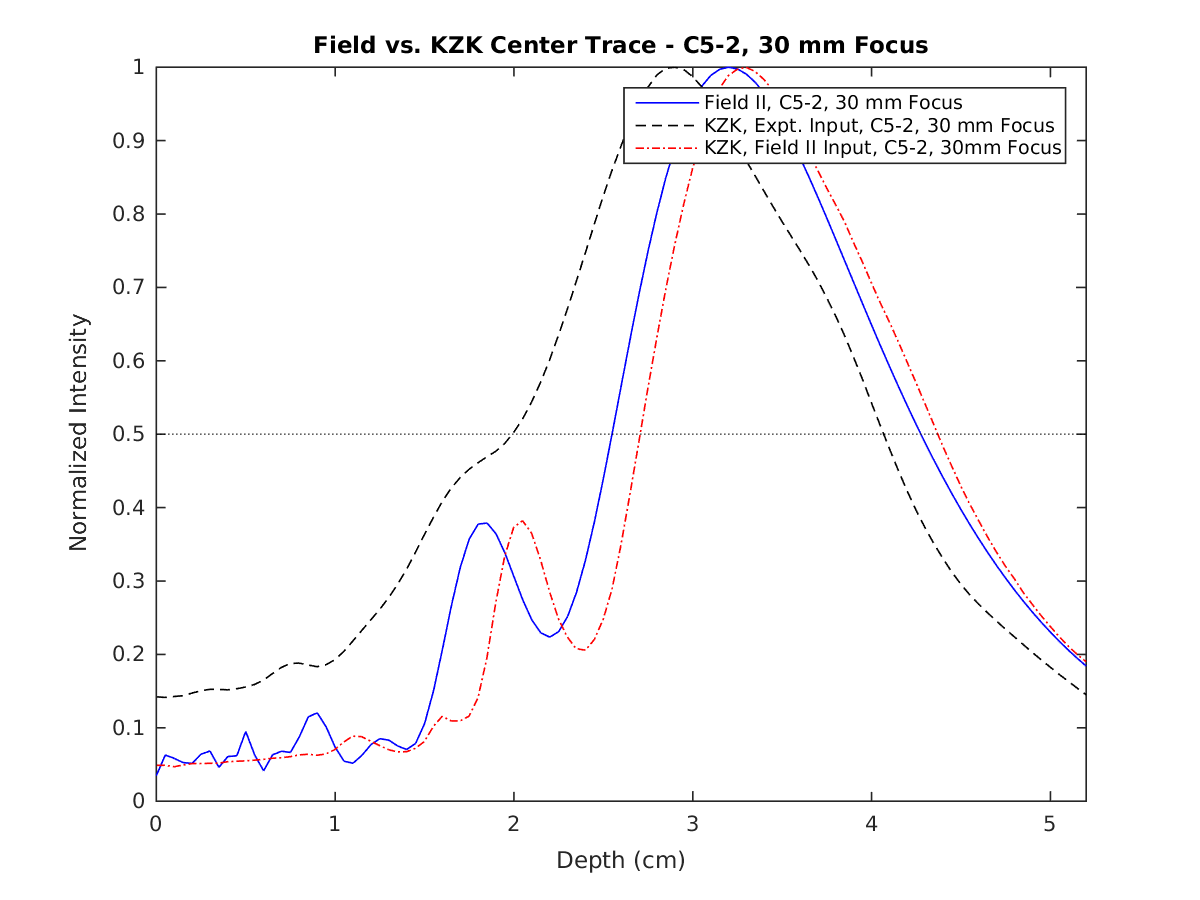
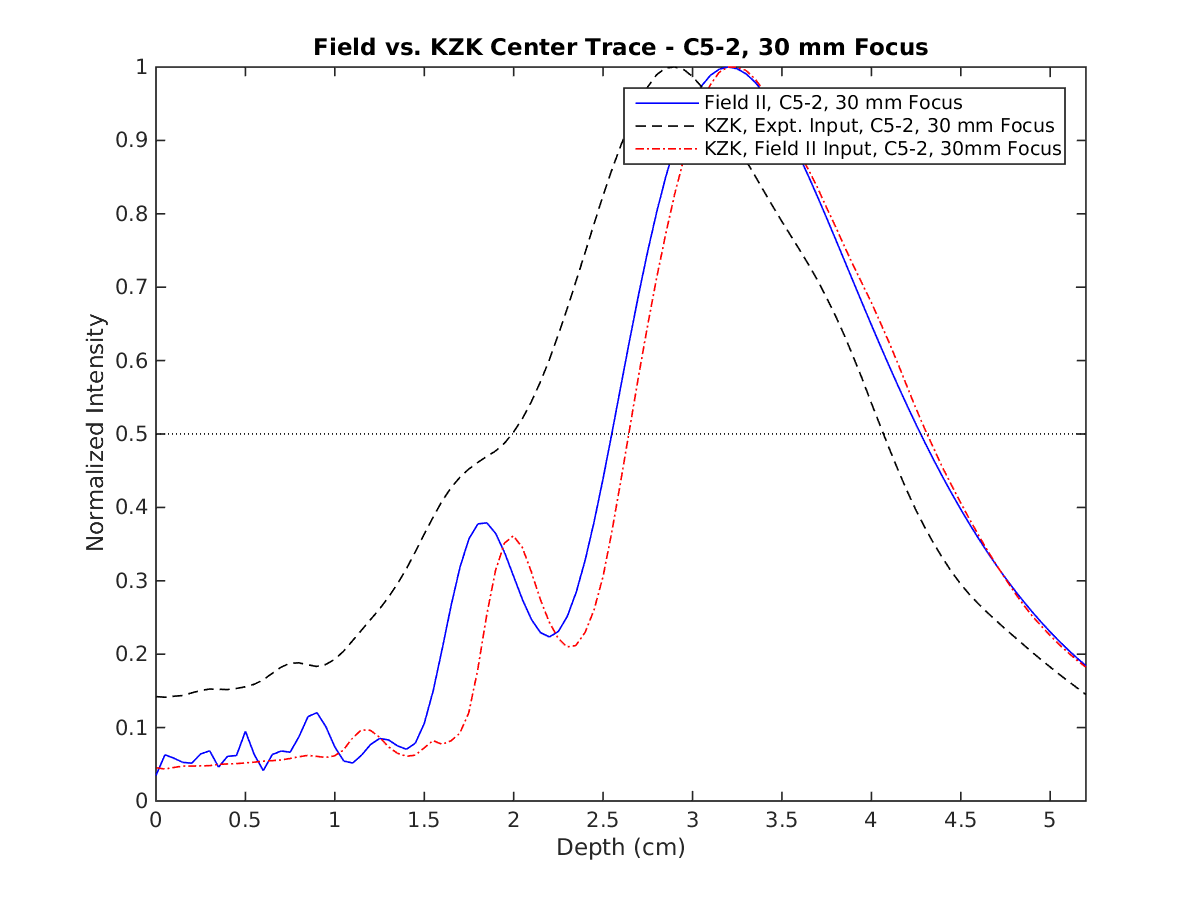
updated center trace and contour plots for kzk sim using field ii inputs w/ better interpolation

diff --git a/comparisons/focus30mm/linear_compare.m b/comparisons/focus30mm/linear_compare.m
@@ -55,8 +55,9 @@ fprintf('Linear KZK:\n')
 load(['/luscinia/nl91/nonlinear_acoustic/kzk/field_ii_c52_focus30mm/'...
               'c52_30mm_intensity_field_field_ii_pressure_input.mat'])
           
-% remove first depth plane (not sure why there are 106 planes instead of 105... maybe bug???)
-intensity = intensity(1:end-1, :, :);
+% remove first depth plane (not sure why there are sometimes 106 depth
+% planes instead of 105... maybe bug???)
+% intensity = intensity(1:end-1, :, :);
           
 intensity_kzk_finput_30mm = permute(intensity, [3 2 1]);
 intensity_kzk_finput_30mm = intensity_kzk_finput_30mm(1:length(kzk_ele), length(kzk_lat):end, :);
